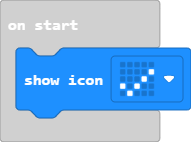
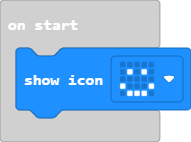
Update main.blocks, main.ts

Changed region(s): [[0.6806, 0.4789, 0.8115, 0.7042], [0.6545, 0.4789, 0.7068, 0.5352]]

diff --git a/main.ts b/main.ts
@@ -4,4 +4,4 @@ input.onButtonPressed(Button.A, function () {
 input.onButtonPressed(Button.B, function () {
     basic.showIcon(IconNames.SmallHeart)
 })
-basic.showIcon(IconNames.Yes)
+basic.showIcon(IconNames.Happy)
